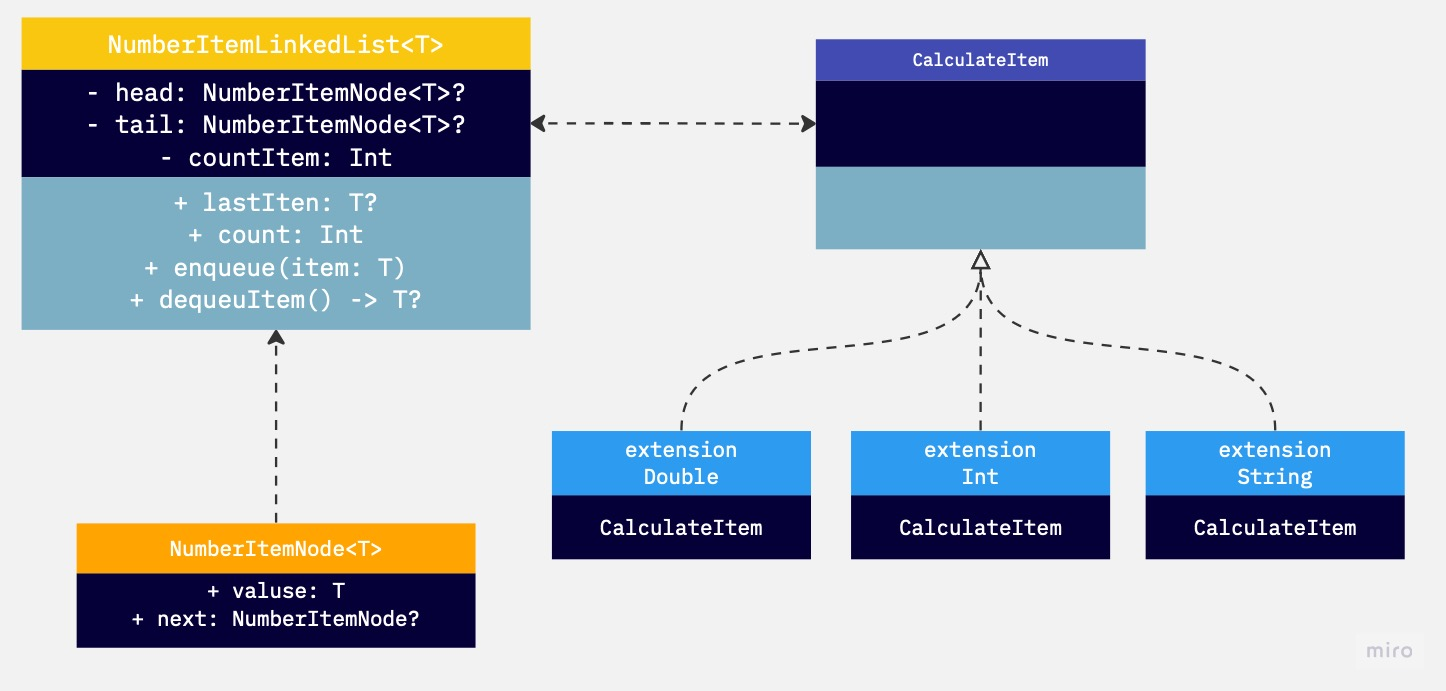
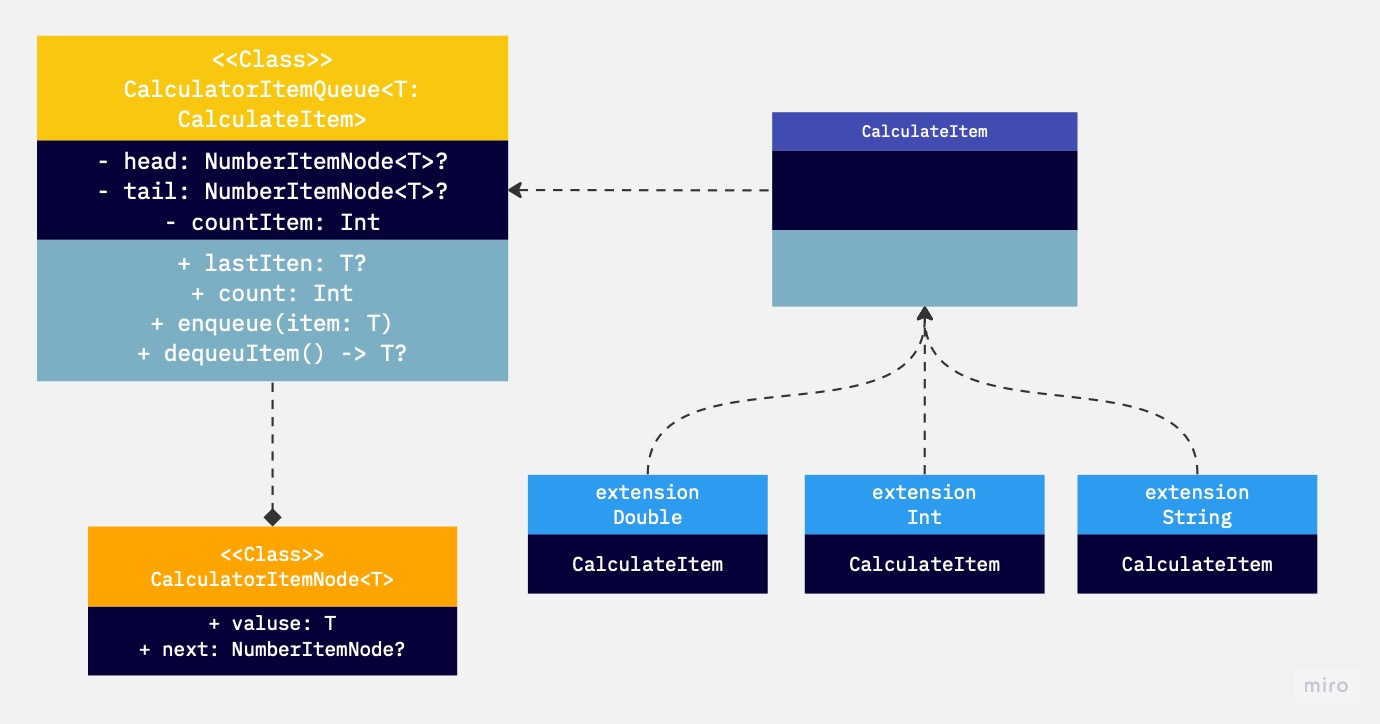
style: UML수정, CalculatorQueueTests객체 메소드명 수정진행

diff --git a/Calculator/CalculatorTests/CalculatorQueueTests.swift b/Calculator/CalculatorTests/CalculatorQueueTests.swift
@@ -22,18 +22,18 @@ final class CalculatorQueueTests: XCTestCase {
         sut = nil
     }
     
-    func test_enqueue_추가후dequeue_값이같은지확인() {
+    func test_enqueue_55_enqueue시_count가_1인지_확인() {
         //given
-        let input = 11
+        let expectationCount = 1
         
         //when
-        sut.enqueue(item: input)
+        sut.enqueue(item: 55)
         
         //then
-        XCTAssertEqual(sut.dequeueItem(), input)
+        XCTAssertEqual(sut.count, expectationCount)
     }
     
-    func test_enqueue마지막값확인() {
+    func test_enqueue_11_enqueue의_마지막값이11인지_확인() {
         //given
         let input = 11
         
@@ -44,7 +44,7 @@ final class CalculatorQueueTests: XCTestCase {
         XCTAssertEqual(input, sut.lastItem)
     }
     
-    func test_enqueue값추가enqueue의갯수확인() {
+    func test_enqueue_1_입력후count갯수가_1인지확인() {
         //given
         let input = 1
         
@@ -55,7 +55,7 @@ final class CalculatorQueueTests: XCTestCase {
         XCTAssertEqual(sut.count, 1)
     }
         
-    func test_enqueue이후_dequeue하여_비어있는지확인() {
+    func test_enqueue이후_dequeue하여_값이비어있는지확인() {
         //given
         let input = 1
         
@@ -67,7 +67,7 @@ final class CalculatorQueueTests: XCTestCase {
         XCTAssertEqual(sut.count, 0)
     }
     
-    func test_enqueue2번진행시갯수2개인지확인() {
+    func test_enqueue_2번_이후_2개의값_입력되었는지확인() {
         //given
         let input = 1
         let secondInput = 22
@@ -80,7 +80,7 @@ final class CalculatorQueueTests: XCTestCase {
         XCTAssertEqual(2, sut.count)
     }
     
-    func test_enqueue3번진행시갯수3개인지확인() {
+    func test_enqueue_3번_이후_3개의값_입력되었는지확인() {
         //given
         let input = 1
         let secondInput = 2
@@ -95,7 +95,7 @@ final class CalculatorQueueTests: XCTestCase {
         XCTAssertEqual(3, sut.count)
     }
     
-    func test_enqueue값과dequeue에서지워진숫자가같은지확인() {
+    func test_enqueue값_dequeue에서지워지는_숫자가같은지확인() {
         //given
         let firstInput = 11
         let secondInput = 21
